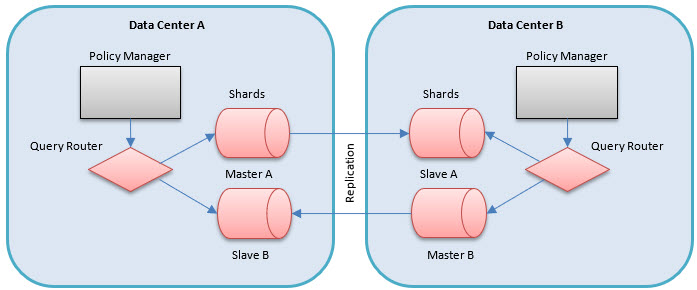
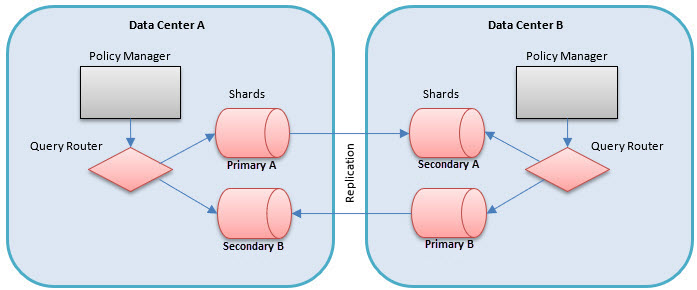
ATMO-38125_deployment_audit_msg (fix additional image)

diff --git a/sp/deployment/deployment_multi_regional.htm b/sp/deployment/deployment_multi_regional.htm
@@ -110,7 +110,7 @@ nav-title: Multi-Regional Deployment
 	<li>Use a RESTful service hosted by the Policy Manager which would write to the NoSQL shard.</li>
 </ul>
 <p>For the other data, which the Network Director writes, there are services on the Policy Manager that the Network Director calls to insert the data into the shard. Note that even though the Policy Manager processes in data center B are secondary instances, they can still write to their local shard. This architecture tries to ensure good performance by keeping all database writes local to the same data center.</p>
-<p>The use of the NoSQL database is very well suited for the data the Network Director needs to write because the data tends to be historical data that does not have relationships to other data in the Policy Manager data model that must be kept in sync. The data does reference the Policy Manager data model to reference containers, services, and operations, but there aren't relational queries that Policy Manager needs to perform that would join with the historical data that the Network Director is writing.</p>
+<p>The use of the NoSQL database is very well suited for the data the Network Director needs to write, because the data tends to be historical data that does not have relationships to other data in the Policy Manager data model that must be kept in sync. The data does reference the Policy Manager data model to reference containers, services, and operations, but there aren't relational queries that Policy Manager needs to perform that would join with the historical data that the Network Director is writing.</p>
 
 
 <h3 id="propagating_nd_config">Propagating Network Director configuration information</h3>
@@ -122,7 +122,7 @@ nav-title: Multi-Regional Deployment
 <p>Although each ND is the primary for the records it writes to its local primary NoSQL shard, it is necessary for Policy Managers in different data centers to at least gain read access to that data. There are two options for how this can be achieved.</p>
 <ul>
 	<li><strong>Query Router</strong>: Having a query router in each data center ensures that any query made by a local Policy Manager for ND-written information is directed to the shards in the other data centers. The data is queried, possibly from multiple data centers, on the fly. This option requires no duplication of data through replication. The data is always assured to be current. However, read performance may suffer due to having to route to different data centers. Furthermore, if a data center is down the data will not be accessible at all.</li>
-	<li><strong>Replicated Content</strong>: Each primary shard replicates its content to other data centers. The other data centers secondary shards. Having a query router in each data center ensures that any query made by a local Policy Manager for ND-written information is directed to the shards in the other data centers. This requires the duplication of data through replication. This provides the best performance for reads; however, if the replication is configured to be infrequent, queries may not get the most current information. This is the recommended option for the multi-regional architecture.</li>
+	<li><strong>Replicated Content</strong>: Each primary shard replicates its content to other data centers. The other data centers have secondary shards. Having a query router in each data center ensures that any query made by a local Policy Manager for ND-written information is directed to the shards in the other data centers. This requires the duplication of data through replication. This provides the best performance for reads; however, if the replication is configured to be infrequent, queries may not get the most current information. This is the recommended option for the multi-regional architecture.</li>
 </ul>
 <p><img src="assets/mrd_02_04.jpg" alt="" /></p>
 <p><a href="#top">Back to top</a></p>
